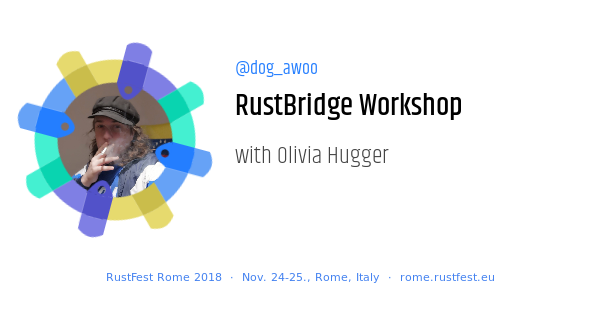
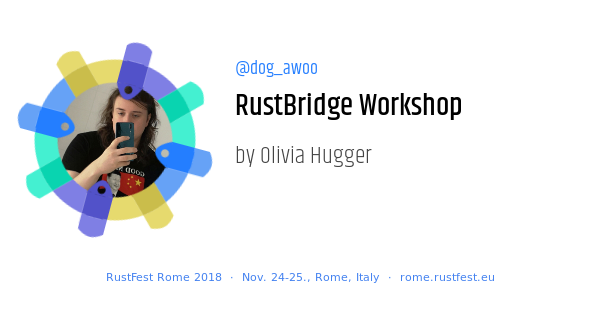
Add workshop and workshop hosts

Changed region(s): [[0.09, 0.258, 0.3, 0.6306], [0.39, 0.4586, 0.66, 0.5446]]

diff --git a/_layouts/meta-twitter-card-generator.html b/_layouts/meta-twitter-card-generator.html
@@ -187,7 +187,6 @@
     ["nick.jpg","name", "@twitter", "title"],
     ["aturon.jpg","Aaron Turon", "@aaron_turon", "Keynote Presentation — TBA"],
     ["irr.png","Increasing Rust's Reach", "#RustReach", "Project Highlight — Ashley Williams · Alan Kavishe · Lee Baillie"],
-    ["olivia.jpg","RustBridge Workshop", "@dog_awoo", "with Olivia Hugger"],
 
     // suggested format for talks
     // ["speaker_pic.jpg","Session title", "@twitter_handle", "by Speaker Name"],
@@ -197,12 +196,17 @@
     ["pascal-hertleif.jpg","Declarative programming in Rust", "@killercup", "by Pascal Hertleif"],
     ["ryan-levick.jpg","Oh Boy! Creating a Game Boy Emulator in Rust", "@itchyankles", "by Ryan Levick"],
     ["yiming-jing.jpg","One Thousand Ways to Die in Rust FFI (and How to Survive)", "@__YimingJing", "by Yiming Jing"],
-    ["dns2utf8.png","Parallel programming", "@dns2utf8", "by Stefan Schindler"],
     ["adam-kelly.jpg","Rust, For Science!", "@adamisntdead", "by Adam Kelly"],
     ["igor-matuszewski.jpg","Caging the SpiderMonkey - Ensuring safe JS bindings in Servo", "@Xanewok", "by Igor Matuszewski"],
 
     // todo
     ["massimiliano-mantione.jpg","Fun with Rusty Robots", "@M_a_s_s_i", "by Massimiliano Mantione"],
+
+    // workshops
+    ["olivia.jpg","RustBridge Workshop", "@dog_awoo", "by Olivia Hugger"],
+    ["dns2utf8.png","Parallel programming", "@dns2utf8", "by Stefan Schindler"],
+    ["llogiq.jpg","Effective Rust Documentation", "@llogiq", "by Andre 'llogiq' Bogus"],
+    /* note: pics for workshops with two people were generated manually */
 
     ];
     var card = document.querySelector('.card:last-of-type');

diff --git a/_sessions/gtk-gstreamer.md b/_sessions/gtk-gstreamer.md
@@ -1,0 +1,26 @@
+---
+layout: session
+permalink: /sessions/:name
+type: workshop
+
+speakers:
+- imperio
+- slomo
+
+
+title: GTK and GStreamer
+desc: >
+  In this workshop we will go through the basics of using the GTK+ UI toolkit and the GStreamer multimedia framework from Rust. A small webcam desktop application will be written during the course of the workshop, which will allow to view the video from the webcam, take snapshots and record videos, possibly with effects.
+  <br>
+  If you're interested in either of the two technologies and how to use them from Rust then this is the workshop for you.
+  <br>
+  Basic Rust knowledge is a requirement for this workshop and participants should bring a laptop with a webcam, running Linux, macOS, or Windows, or pair with another participant on their laptop.
+
+socialTwitterCardType: summary_large_image
+socialImageSrc: /assets/social/gtk-gstreamer.png
+description: Let's go through the basics of using the GTK+ UI toolkit and the GStreamer multimedia framework from Rust.
+
+day: sunday
+room: ~
+public: false
+---

diff --git a/_sessions/networking-web.md b/_sessions/networking-web.md
@@ -1,0 +1,21 @@
+---
+layout: session
+permalink: /sessions/:name
+type: workshop
+
+speakers:
+- hoverbear
+- yann
+
+title: Networking & Web
+desc: >
+  In this workshop we hold an open space for those attendees interested in the web or networking to come, share what they’ve been working on, ask for advice, or learn about new techniques. There is no set content or agenda, we’ll start the day by gathering a list of topics, and throughout the day anyone who wants to will have a chance to speak to them. If you’re interested in Tokio, Hyper, distributed systems, Gotham, Rocket, interacting with databases, or if you’re interested in trying out speaking in a small group, this workshop might be a good choice for you.
+
+socialTwitterCardType: summary_large_image
+socialImageSrc: /assets/social/networking-web.png
+description: An open space for participant lead networking & web topics. Bring your own topic or questions!
+
+day: sunday
+room: ~
+public: false
+---

diff --git a/_sessions/effective-rust-documentation.md b/_sessions/effective-rust-documentation.md
@@ -1,0 +1,22 @@
+---
+layout: session
+permalink: /sessions/:name
+type: workshop
+
+speakers:
+- llogiq
+
+title: Effective Rust Documentation
+desc: >
+  While Rust and its ecosystem has some shining examples of great documentation, there's still a lot to do. So let's spread the word how to improve all our crates' docs. Because they deserve it.
+  <br>
+  This is a "bring your own crate" workshop, so please select a crate you want to document or improve documentation on. For those undecided, I will maintain a list of "docs wanted" crates during the talks day to distribute crates randomly.
+
+socialTwitterCardType: summary_large_image
+socialImageSrc: /assets/social/effective-rust-documentation.png
+description: Let's spread the word how to improve all our crates' docs. Because they deserve it.
+
+day: sunday
+room: ~
+public: false
+---

diff --git a/_sessions/parallel-programming.md b/_sessions/parallel-programming.md
@@ -1,0 +1,21 @@
+---
+layout: session
+permalink: /sessions/:name
+type: workshop
+
+speakers:
+- dns2utf8
+
+title: Parallel Programming
+desc: >
+  Multiprocessor programming is a big mystery to many people. This is an introduction workshop for beginners explaining different modes on execution and then use channels to develop a multi-plattform, parallel thumbnail generator. Using ThreadPool and rayon.
+
+
+socialTwitterCardType: summary_large_image
+socialImageSrc: /assets/social/parallel-programing.png
+description: Multiprocessor programming is a big mystery to many people. This introductory workshop explains how to build a multi-platform, parallel thumbnail generator in Rust.
+
+day: sunday
+room: ~
+public: false
+---
